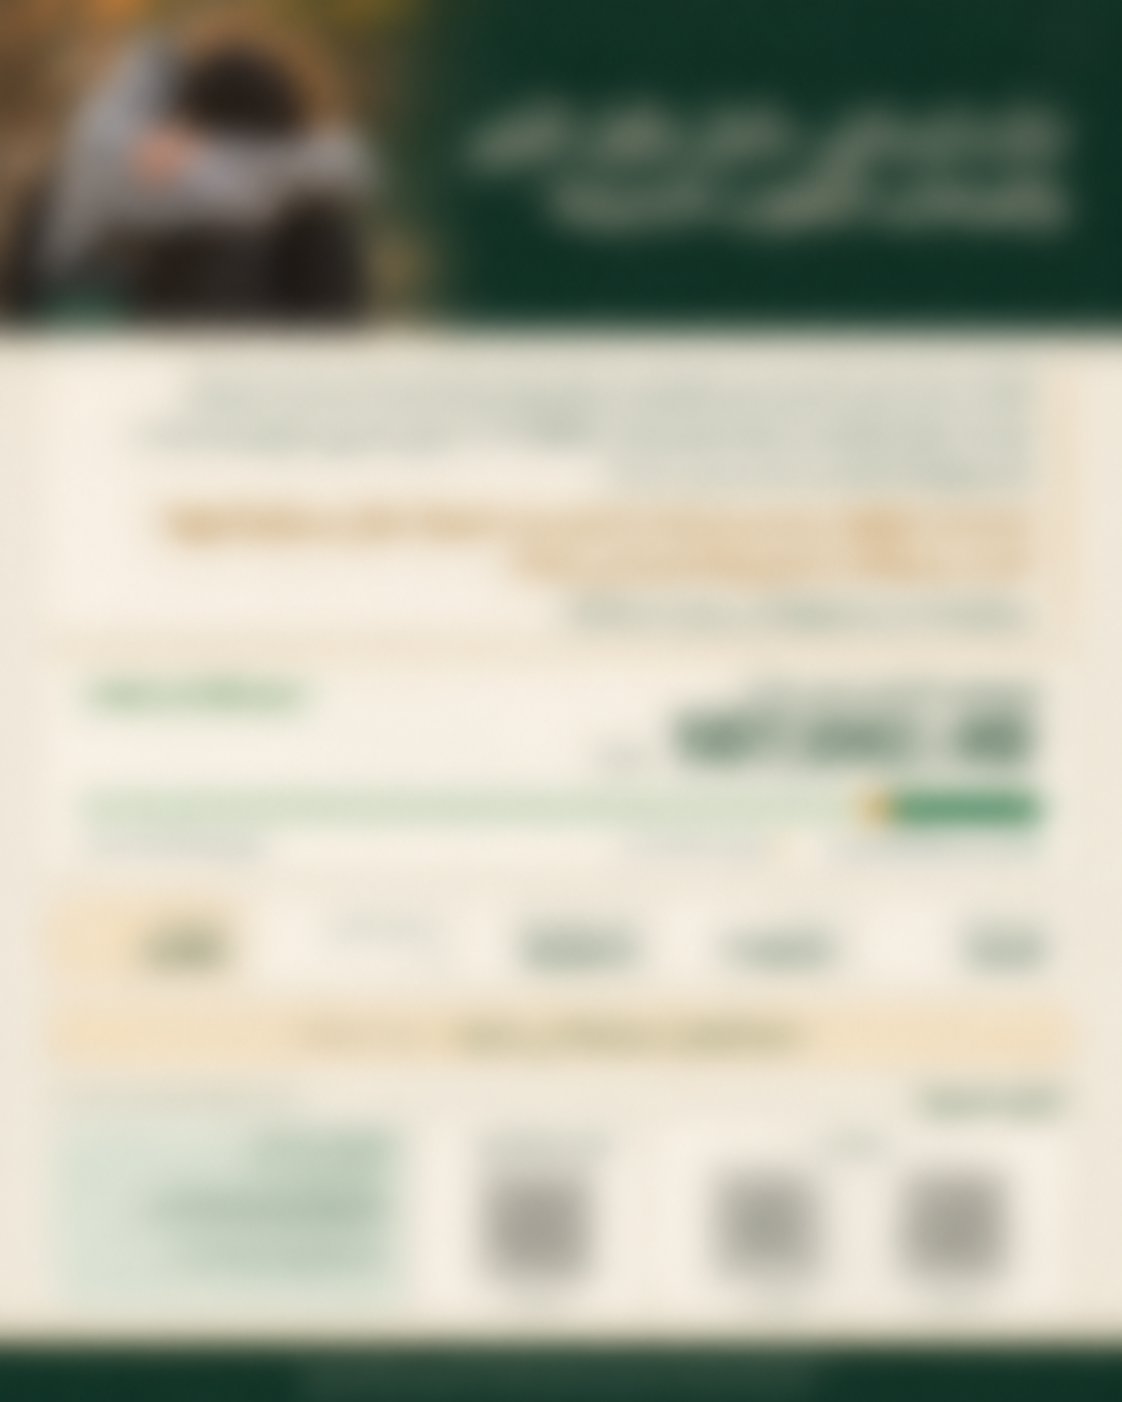
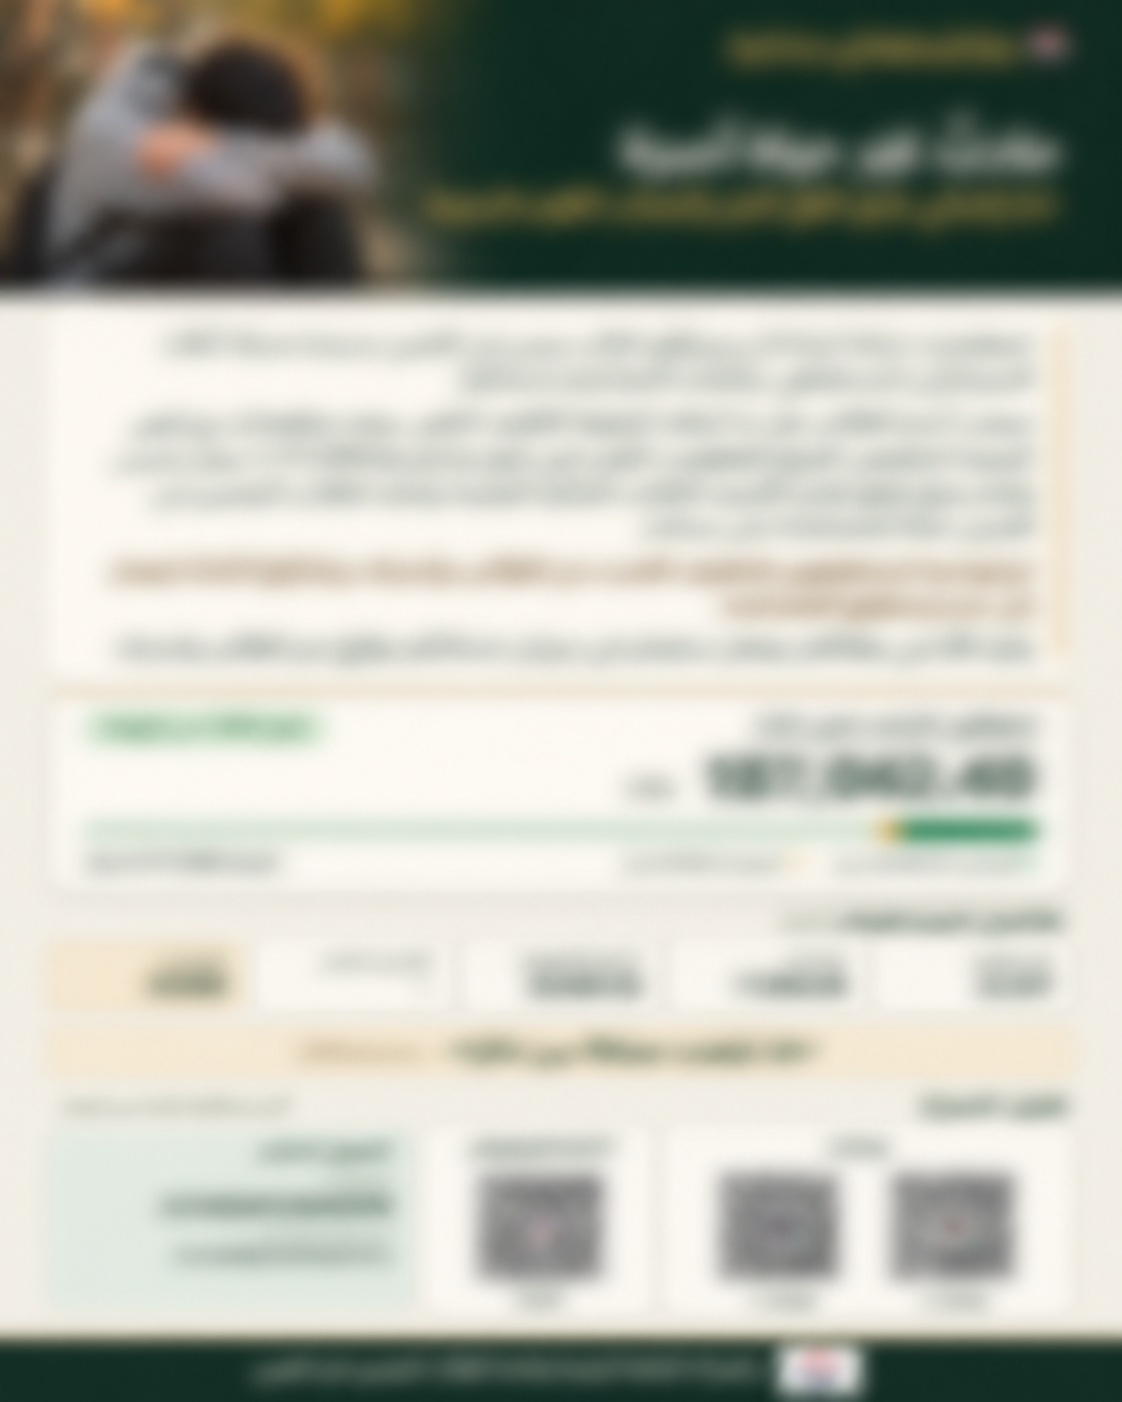
Align the completion poster with the revised diya campaign

diff --git a/poster.js b/poster.js
@@ -5,9 +5,12 @@ function createCompletionPoster(canvas, formatYuan) {
   const W = canvas.width / 2;
   const H = canvas.height / 2;
   const image = new Image();
-  image.src = "blurred-campaign.png";
+  image.src = "blurred-campaign.png?v=story-1";
+  const unionLogo = new Image();
+  unionLogo.src = "ysuc-logo.png";
   const ready = Promise.all([
     image.decode(),
+    unionLogo.decode(),
     document.fonts.load('600 30px "Noto Campaign"', "اكتمل المبلغ").catch(() => [])
   ]);
 
@@ -143,7 +146,7 @@ function createCompletionPoster(canvas, formatYuan) {
   function drawHeader(complete) {
     line(165, 238, 61, "#cda369");
     line(842, 915, 61, "#cda369");
-    write("حملة دعم الطالب اليمني في الصين", W / 2, 71, { align: "center", color: "#efd19e" });
+    write("حملة للمساهمة في سداد الدية", W / 2, 71, { align: "center", color: "#efd19e" });
     box(64, 108, 952, 405, 22, "#355444", "#c2a06a");
     context.save();
     context.clip();
@@ -197,7 +200,7 @@ function createCompletionPoster(canvas, formatYuan) {
     write("المستلم فعليًا", 953, 771, { size: 27, weight: 720, color: gold });
     write(formatYuan(received), 953, 842, { size: 65, weight: 900, numeric: true, max: 482 });
     box(439, 756, 1, 84, 0, "#658471");
-    write("هدف الحملة", 411, 771, { size: 25, color: gold });
+    write("هدف سداد الدية", 411, 771, { size: 25, color: gold });
     write(formatYuan(amounts.goal), 411, 827, { size: 39, weight: 790, numeric: true, max: 284 });
     box(128, 874, 824, 13, 6.5, "#416451");
     const bar = 824 * Math.min(1, received / amounts.goal);
@@ -255,6 +258,18 @@ function createCompletionPoster(canvas, formatYuan) {
     }));
   }
 
+  function drawSupervision() {
+    line(90, 990, 1737, "#b996636e");
+    box(866, 1752, 100, 66, 9, "#fff");
+    const scale = Math.min(88 / unionLogo.naturalWidth, 56 / unionLogo.naturalHeight);
+    const width = unionLogo.naturalWidth * scale;
+    const height = unionLogo.naturalHeight * scale;
+    context.drawImage(unionLogo, 916 - width / 2, 1785 - height / 2, width, height);
+    write("بإشراف الجالية اليمنية واتحاد الطلاب اليمنيين في الصين", 842, 1796, {
+      size: 26, weight: 680, color: "#f3dbaa", max: 730
+    });
+  }
+
   return {
     ready,
     paint(state) {
@@ -267,6 +282,7 @@ function createCompletionPoster(canvas, formatYuan) {
       drawHeader(state.complete);
       drawStatement(state);
       drawThanks();
+      drawSupervision();
     }
   };
 }

diff --git a/index.html b/index.html
@@ -4,11 +4,11 @@
   <meta charset="utf-8">
   <meta name="viewport" content="width=device-width, initial-scale=1">
   <meta name="theme-color" content="#142f26">
-  <meta name="description" content="النسخة الاحتفالية لإعلان اكتمال حملة دعم الطالب اليمني في الصين، مع بيان المبالغ المستلمة والتعهدات.">
-  <title>ختام حملة دعم الطالب اليمني في الصين — النسخة الاحتفالية</title>
+  <meta name="description" content="إعلان اكتمال حملة المساهمة في سداد الدية، مع بيان المبالغ المستلمة والتعهدات.">
+  <title>ختام حملة المساهمة في سداد الدية — النسخة الاحتفالية</title>
   <link rel="stylesheet" href="style.css">
   <script src="campaign.js?v=2" defer></script>
-  <script src="poster.js?v=2" defer></script>
+  <script src="poster.js?v=3" defer></script>
   <script src="app.js" defer></script>
 </head>
 <body>
@@ -16,7 +16,7 @@
     <div class="container masthead-inner">
       <span class="flag" aria-hidden="true"></span>
       <div>
-        <h1>ختام حملة دعم الطالب اليمني في الصين</h1>
+        <h1>ختام حملة المساهمة في سداد الدية</h1>
         <p class="edition">النسخة الاحتفالية</p>
       </div>
     </div>
@@ -32,7 +32,7 @@
           <label>أليباي (الجيفوباو)<input inputmode="decimal" name="alipay" maxlength="18" dir="ltr"></label>
           <label>التحويل البنكي<input inputmode="decimal" name="bank" maxlength="18" dir="ltr" placeholder="—"></label>
           <label>التعهدات غير المحصّلة<input inputmode="decimal" name="pledges" maxlength="18" dir="ltr"></label>
-          <label>هدف الحملة<input inputmode="decimal" name="goal" maxlength="18" dir="ltr"></label>
+          <label>هدف سداد الدية<input inputmode="decimal" name="goal" maxlength="18" dir="ltr"></label>
         </div>
         <p id="validation" role="alert" class="error" hidden>أدخل مبالغ غير سالبة بمنزلتين عشريتين كحد أقصى، وهدفًا أكبر من صفر.</p>
         <section class="summary" aria-label="إجماليات التبرعات">

diff --git a/README.md b/README.md
@@ -1,4 +1,4 @@
-# ختام حملة دعم الطالب اليمني في الصين — النسخة الاحتفالية
+# ختام حملة المساهمة في سداد الدية — النسخة الاحتفالية
 
 موقع مستقل لتجهيز إعلان اكتمال التبرعات مع بيان المبالغ باليوان الصيني. يظهر ختم الاكتمال مع البالونات والشرائط والقصاصات حول صورة الحملة المموّهة. يتضمن الإعلان رسالة شكر ودعاء لكل من تبرّع أو شارك النداء أو دعا للطالب وأهله.
 
